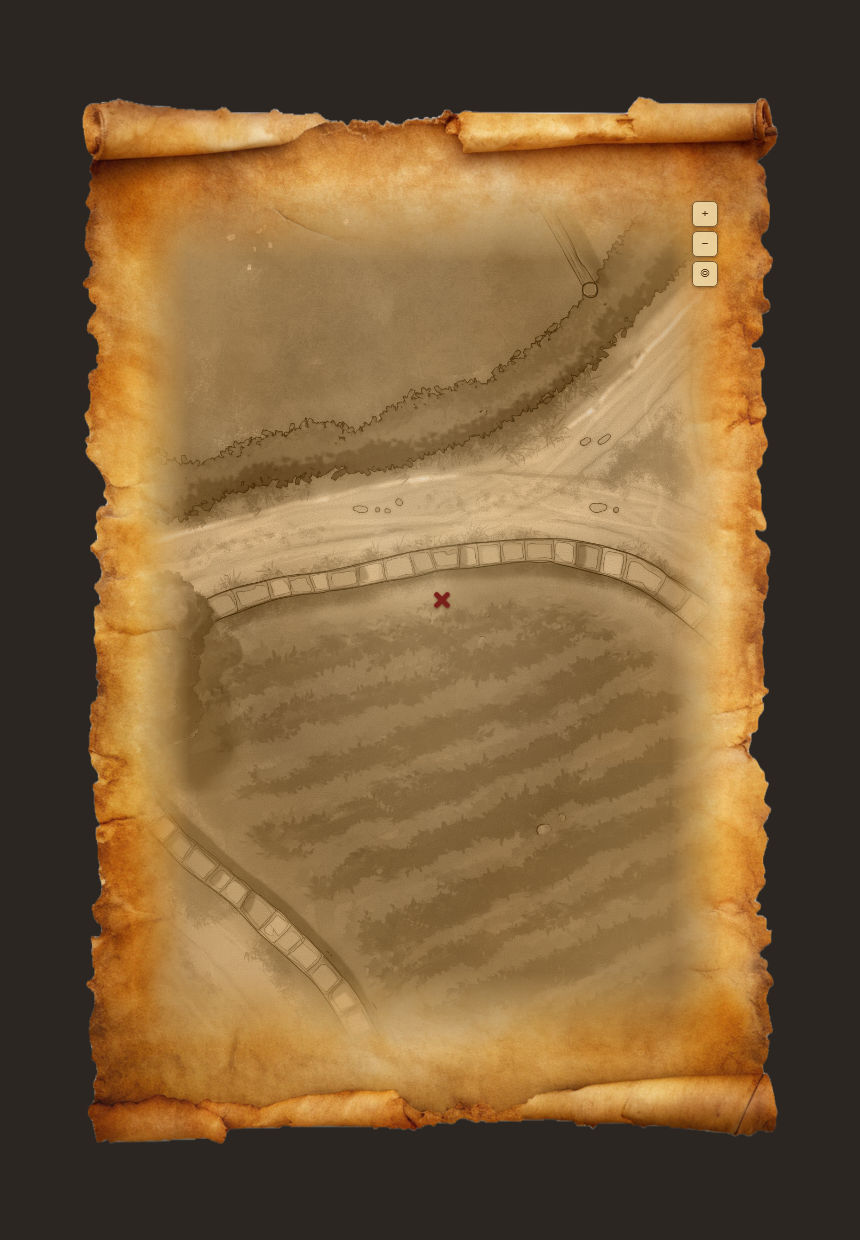
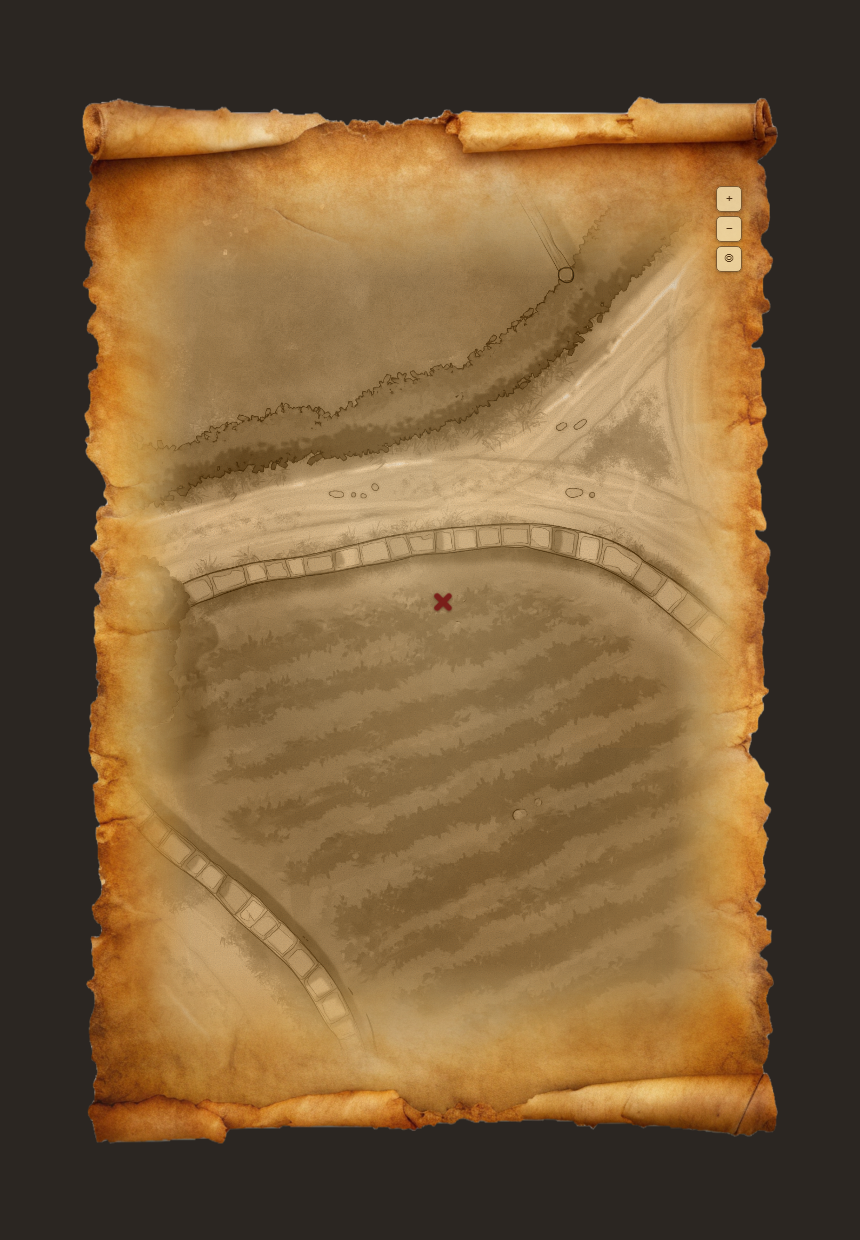
Expand viewable area so the map fades out at the parchment edges

diff --git a/styles/parchment-map.css b/styles/parchment-map.css
@@ -67,10 +67,11 @@
 	background-size: 100% 100%;
 }
 
-/* Content sits over the flat paper area, inside the torn edges and rolls. */
+/* Content spans nearly the whole sheet; the viewport's fade masks carry the
+   map out to the torn edges and the rolls. */
 .pmap-content {
 	position: absolute;
-	inset: 8.5% 8% 9% 8%;
+	inset: 7% 4.5%;
 }
 
 /* --- the map viewport ------------------------------------------------------ */
@@ -82,12 +83,12 @@
 	touch-action: none;
 	/* soft rectangular fade so the map melts into the surrounding paper */
 	-webkit-mask-image:
-		linear-gradient(90deg, transparent 0, black 9%, black 91%, transparent 100%),
-		linear-gradient(180deg, transparent 0, black 9%, black 91%, transparent 100%);
+		linear-gradient(90deg, transparent 0, black 12%, black 88%, transparent 100%),
+		linear-gradient(180deg, transparent 0, black 12%, black 88%, transparent 100%);
 	-webkit-mask-composite: source-in;
 	mask-image:
-		linear-gradient(90deg, transparent 0, black 9%, black 91%, transparent 100%),
-		linear-gradient(180deg, transparent 0, black 9%, black 91%, transparent 100%);
+		linear-gradient(90deg, transparent 0, black 12%, black 88%, transparent 100%),
+		linear-gradient(180deg, transparent 0, black 12%, black 88%, transparent 100%);
 	mask-composite: intersect;
 }
 .pmap-viewport.dragging { cursor: grabbing; }